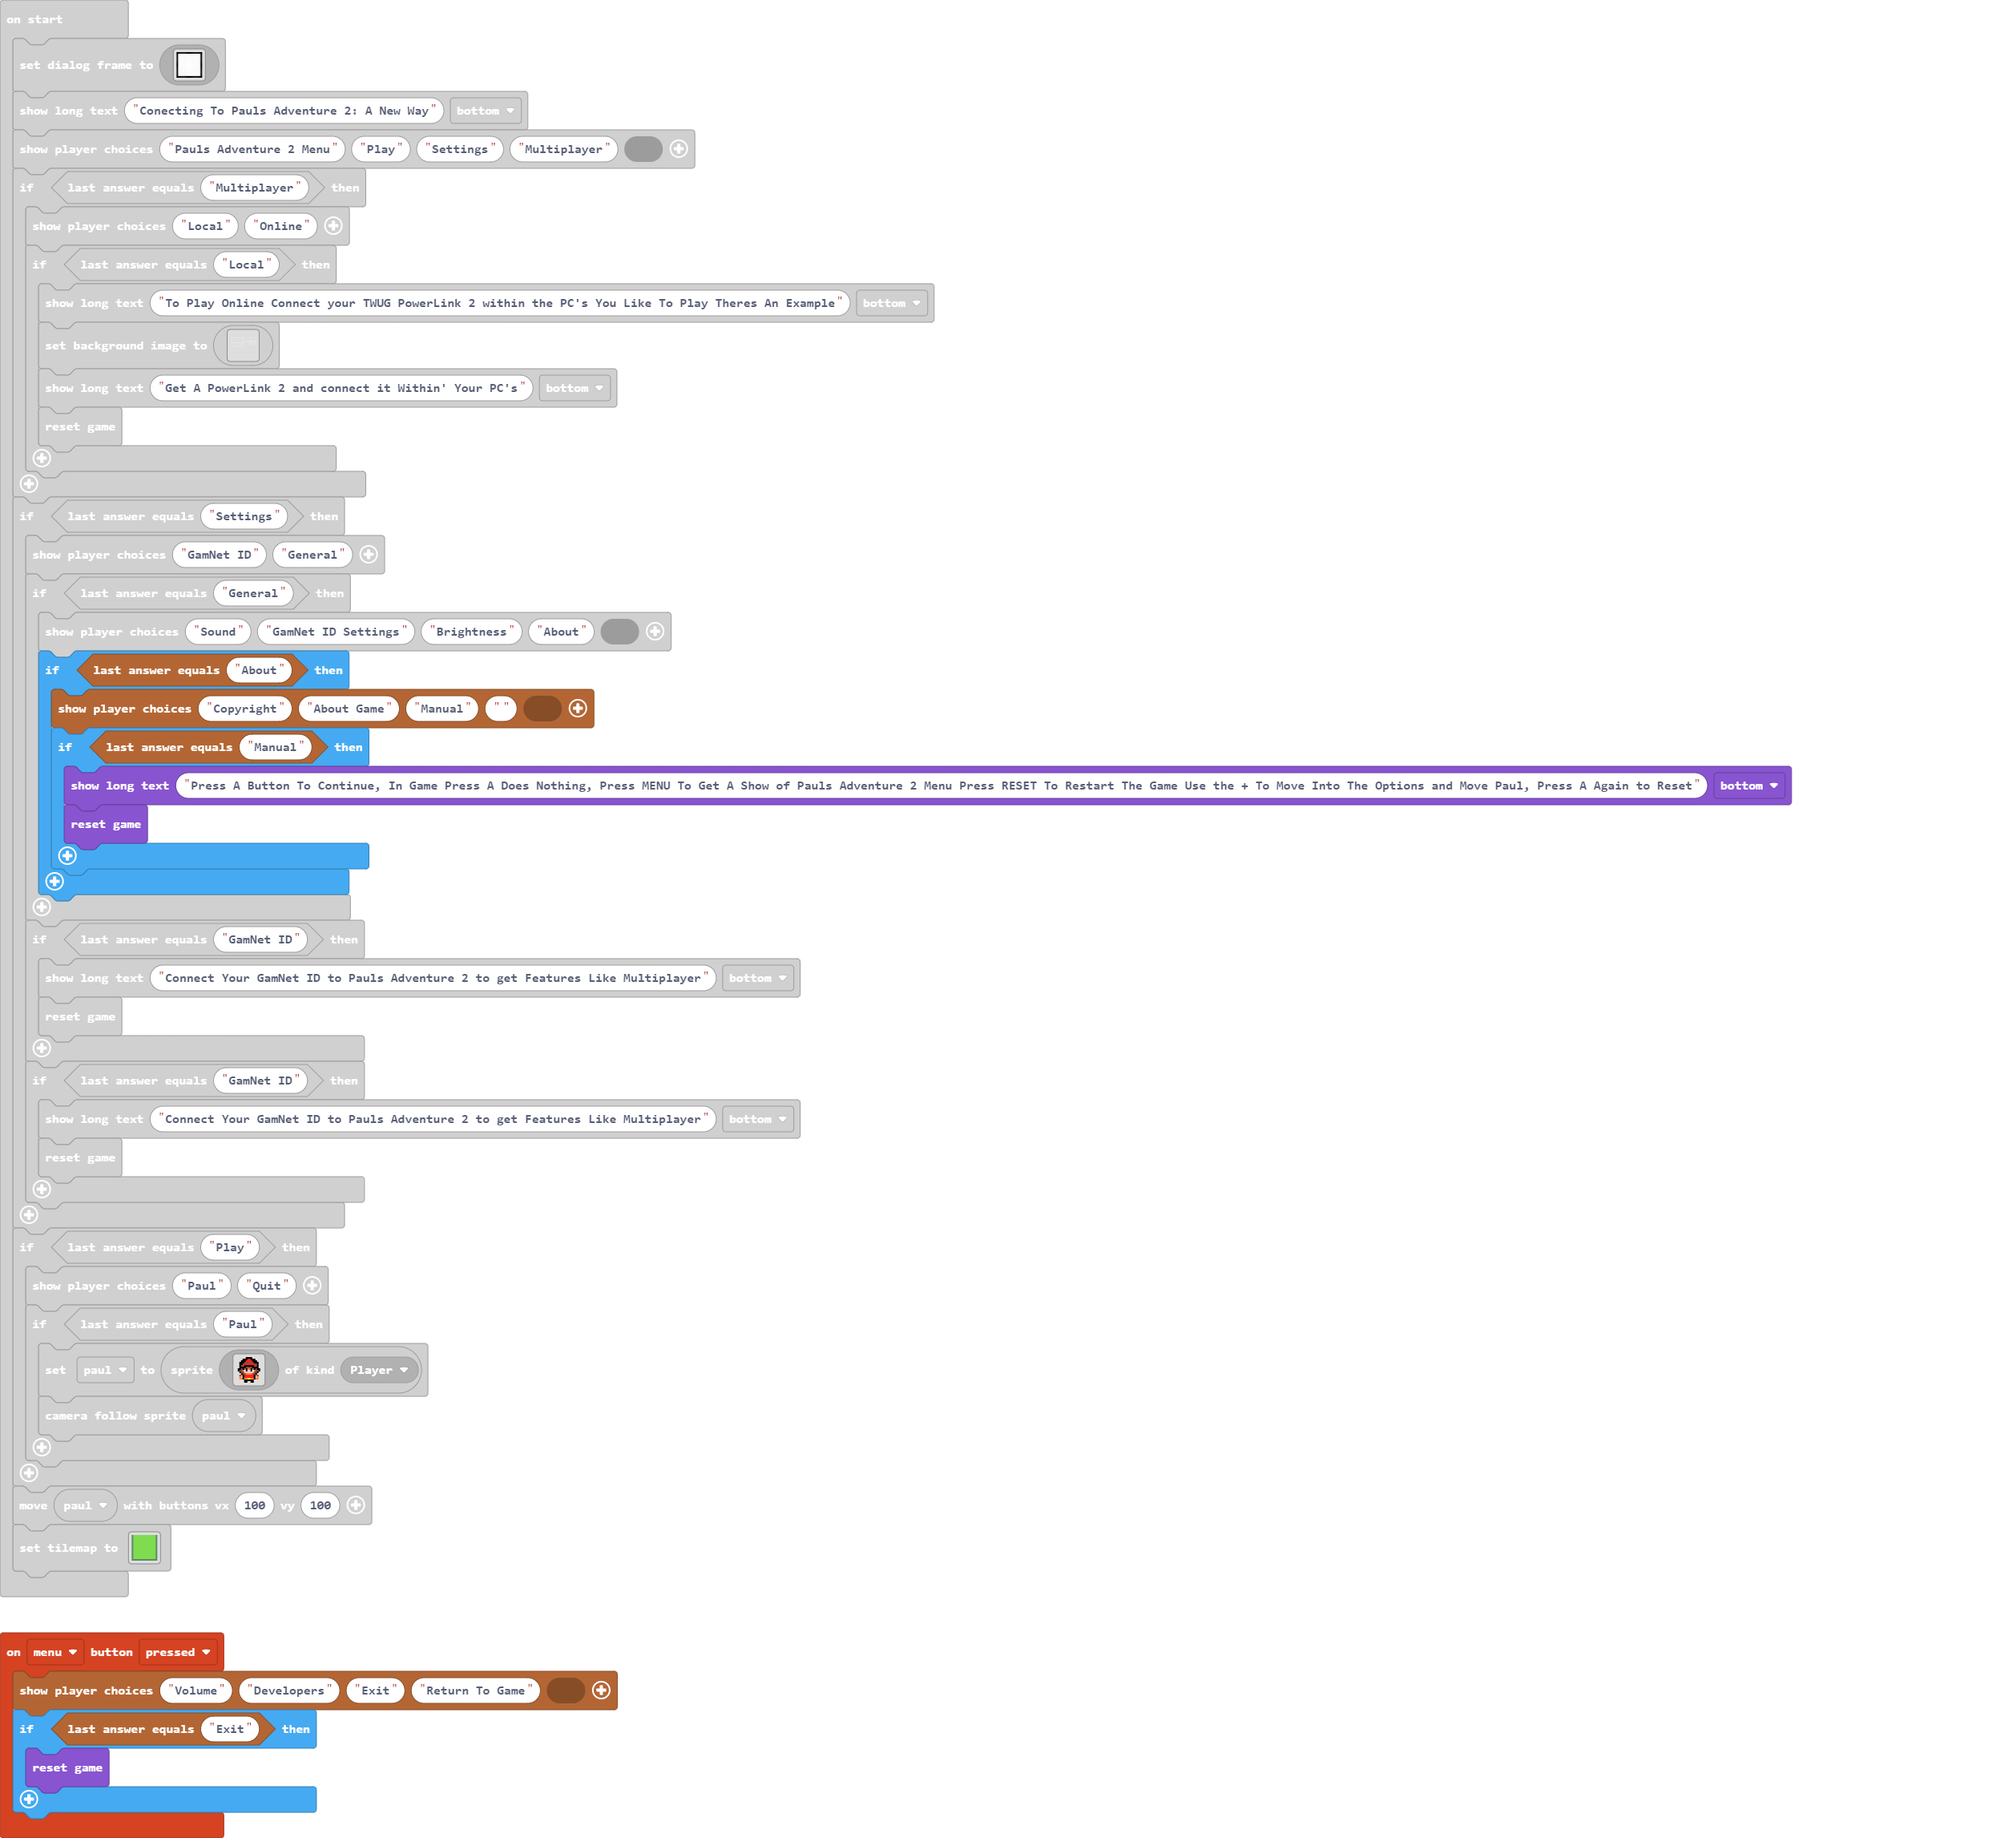
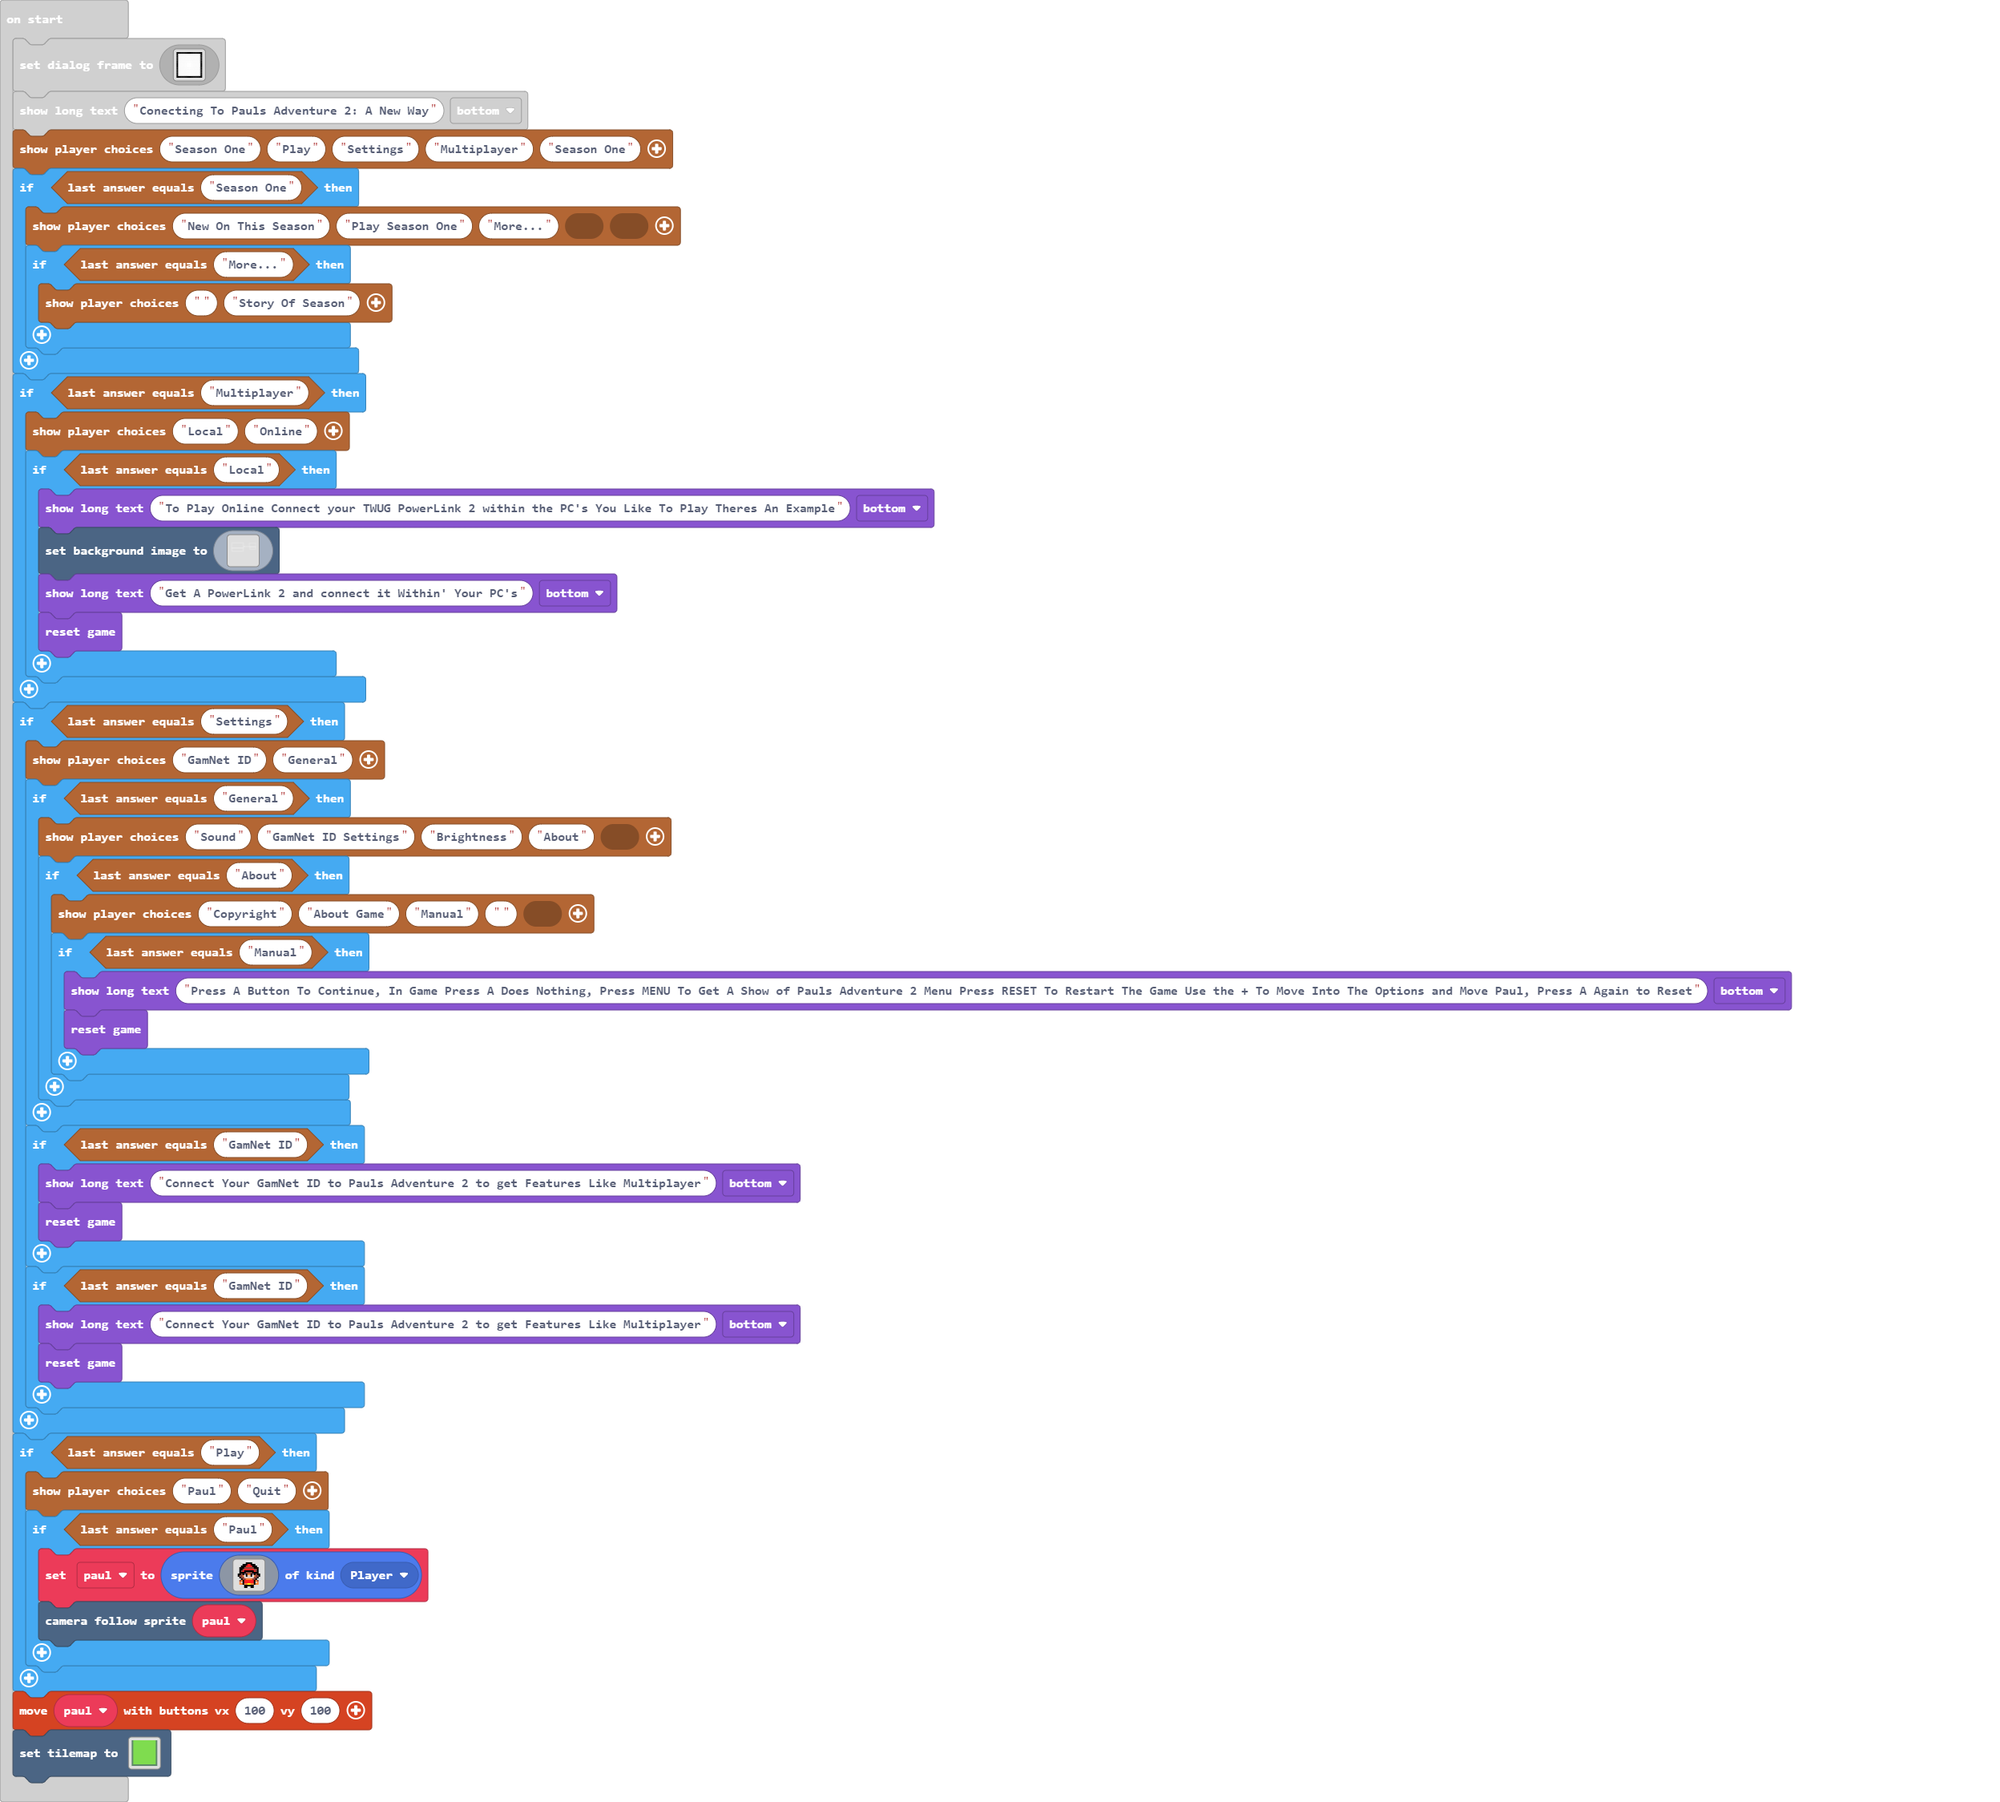
Created Season Menu

Changed region(s): [[0.0, 0.0311, 0.9062, 1.0]]

diff --git a/images.g.ts b/images.g.ts
@@ -132,7 +132,161 @@ namespace myImages {
 
     helpers._registerFactory("animation", function(name: string) {
         switch(helpers.stringTrim(name)) {
-
+            case "Trailer":
+            case "anim1":return [img`
+. . . . . . f f f f . . . . . . 
+. . . . f f f 2 2 f f f . . . . 
+. . . f f f 2 2 2 2 f f f . . . 
+. . f f f e e e e e e f f f . . 
+. . f f e 2 2 2 2 2 2 e e f . . 
+. . f e 2 f f f f f f 2 e f . . 
+. . f f f f e e e e f f f f . . 
+. f f e f b f 4 4 f b f e f f . 
+. f e e 4 1 f d d f 1 4 e e f . 
+. . f e e d d d d d d e e f . . 
+. . . f e e 4 4 4 4 e e f . . . 
+. . e 4 f 2 2 2 2 2 2 f 4 e . . 
+. . 4 d f 2 2 2 2 2 2 f d 4 . . 
+. . 4 4 f 4 4 5 5 4 4 f 4 4 . . 
+. . . . . f f f f f f . . . . . 
+. . . . . f f . . f f . . . . . 
+`, img`
+. . . . . . . . . . . . . . . . 
+. . . . . . f f f f . . . . . . 
+. . . . f f f 2 2 f f f . . . . 
+. . . f f f 2 2 2 2 f f f . . . 
+. . f f f e e e e e e f f f . . 
+. . f f e 2 2 2 2 2 2 e e f . . 
+. f f e 2 f f f f f f 2 e f f . 
+. f f f f f e e e e f f f f f . 
+. . f e f b f 4 4 f b f e f . . 
+. . f e 4 1 f d d f 1 4 e f . . 
+. . . f e 4 d d d d 4 e f e . . 
+. . f e f 2 2 2 2 e d d 4 e . . 
+. . e 4 f 2 2 2 2 e d d e . . . 
+. . . . f 4 4 5 5 f e e . . . . 
+. . . . f f f f f f f . . . . . 
+. . . . f f f . . . . . . . . . 
+`, img`
+. . . . . . f f f f . . . . . . 
+. . . . f f f 2 2 f f f . . . . 
+. . . f f f 2 2 2 2 f f f . . . 
+. . f f f e e e e e e f f f . . 
+. . f f e 2 2 2 2 2 2 e e f . . 
+. . f e 2 f f f f f f 2 e f . . 
+. . f f f f e e e e f f f f . . 
+. f f e f b f 4 4 f b f e f f . 
+. f e e 4 1 f d d f 1 4 e e f . 
+. . f e e d d d d d d e e f . . 
+. . . f e e 4 4 4 4 e e f . . . 
+. . e 4 f 2 2 2 2 2 2 f 4 e . . 
+. . 4 d f 2 2 2 2 2 2 f d 4 . . 
+. . 4 4 f 4 4 5 5 4 4 f 4 4 . . 
+. . . . . f f f f f f . . . . . 
+. . . . . f f . . f f . . . . . 
+`, img`
+. . . . . . . . . . . . . . . . 
+. . . . . . f f f f . . . . . . 
+. . . . f f f 2 2 f f f . . . . 
+. . . f f f 2 2 2 2 f f f . . . 
+. . f f f e e e e e e f f f . . 
+. . f e e 2 2 2 2 2 2 e f f . . 
+. f f e 2 f f f f f f 2 e f f . 
+. f f f f f e e e e f f f f f . 
+. . f e f b f 4 4 f b f e f . . 
+. . f e 4 1 f d d f 1 4 e f . . 
+. . e f e 4 d d d d 4 e f . . . 
+. . e 4 d d e 2 2 2 2 f e f . . 
+. . . e d d e 2 2 2 2 f 4 e . . 
+. . . . e e f 5 5 4 4 f . . . . 
+. . . . . f f f f f f f . . . . 
+. . . . . . . . . f f f . . . . 
+`, img`
+1 1 1 1 1 1 1 1 1 1 1 1 1 1 1 1 
+1 1 f f f 1 1 1 1 1 1 1 1 1 1 1 
+1 1 f f f 1 1 1 1 1 1 1 1 1 1 1 
+1 1 1 1 f 1 1 f f f f f f 1 1 1 
+1 1 1 1 f f f 3 3 3 3 3 3 f f 1 
+1 1 1 f 3 3 3 3 3 3 3 3 3 3 3 f 
+1 1 1 f 3 3 3 3 3 3 3 3 3 3 3 f 
+1 1 1 f 3 3 3 3 3 3 3 3 3 3 3 f 
+1 1 1 f 3 3 3 3 3 3 3 3 3 3 3 f 
+1 1 1 f 3 3 3 3 3 3 3 3 3 3 3 f 
+1 1 1 f 3 3 3 3 3 3 3 3 3 3 3 f 
+1 1 1 f 3 3 3 3 3 3 3 3 3 3 3 f 
+1 1 1 f 3 3 3 3 3 3 3 3 3 3 3 f 
+1 1 1 f 3 3 3 3 3 3 3 3 3 3 f f 
+1 1 1 f 3 3 3 3 3 3 3 3 3 3 3 f 
+1 1 1 f 3 3 3 3 3 3 3 3 3 3 3 f 
+`, img`
+1 1 1 1 f f f f f 1 1 1 1 1 1 1 
+1 1 1 1 f f f f f 1 1 1 1 1 1 1 
+1 f f f f f f f f f f f f f f f 
+1 f 3 f f 2 2 2 f 2 f f f f f f 
+1 f f f 3 f f f f f f f f 3 f f 
+1 1 f f 3 3 f 2 f f f f f f f f 
+1 1 f f f 3 f f 2 f f f f 3 3 f 
+1 f f 3 f f 3 f f 3 3 f f 3 3 f 
+1 f 3 3 3 f f f 3 3 3 3 f f f f 
+1 f 3 3 3 3 3 f f f f f f f f f 
+1 f 3 3 3 3 3 3 3 3 f f 3 3 3 f 
+1 f 3 3 3 3 3 3 3 3 3 3 3 3 3 f 
+1 f f 3 3 3 3 3 3 3 3 3 3 3 3 f 
+1 1 f 3 3 3 3 3 3 3 3 3 3 3 3 f 
+1 1 1 f f f f f f f f f f f f f 
+1 1 1 1 f 1 1 1 1 1 1 1 1 f f 1 
+`, img`
+. . . . . . . . . . . . . . . . 
+. . . . . . . . . . . . . . . . 
+. . . . . . . . . . . . . . . . 
+. . . . . . . . . . . . . . . . 
+. . . . . . . . . . . . . . . . 
+. . . . . . . . . . . . . . . . 
+. . . . . . . . . . . . f f f f 
+. . . . . . . . f . . . f 2 2 2 
+. . . . . . . . f f f f f f 2 f 
+. . . . . . . . f . . . f 2 2 2 
+. . . . . . . . f . . . f 2 2 2 
+. . . . . . . . f . f f f 2 2 2 
+. . . . . . . . f . f f 3 3 2 3 
+. . . . . . . . f f f f 3 3 3 3 
+. . . . . . . . . f f f f 3 f f 
+. . . . . . . . . . f 3 3 3 3 3 
+`, img`
+1 1 1 1 1 1 1 1 1 1 1 1 1 1 1 1 
+f f f 1 1 1 1 1 1 1 1 1 1 1 1 1 
+f 1 1 1 1 1 1 1 1 1 1 1 f f f 1 
+f f f 1 f f f 1 f 1 f 1 f 1 f 1 
+1 1 f 1 f 1 f 1 f 1 f 1 f f f 1 
+f f f 1 f f f 1 f 1 f 1 f 1 1 1 
+1 1 1 1 1 1 f 1 1 f 1 1 f f f 1 
+1 1 1 1 1 1 1 1 1 1 1 1 1 1 1 1 
+f 1 1 1 1 1 1 f f f 1 1 1 1 1 1 
+f f f 1 1 f 1 f 1 f 1 1 1 1 1 1 
+f 1 1 1 f f 1 f f f 1 1 1 1 1 1 
+f 1 1 1 f f 1 f 1 1 1 1 1 1 1 1 
+1 1 1 1 1 1 1 f f f 1 1 1 1 1 1 
+1 1 1 1 1 1 1 1 1 1 1 1 1 1 1 1 
+1 1 1 1 1 1 1 1 1 1 1 1 1 1 1 1 
+1 1 1 1 1 1 1 1 1 1 1 1 1 1 1 1 
+`, img`
+f f f f 1 1 1 1 1 1 1 1 1 1 1 1 
+f 1 1 1 1 1 1 1 1 1 1 1 1 1 1 1 
+f 1 f f f 1 f f f 1 f 1 1 1 1 1 
+f 1 1 1 f 1 f 1 f 1 f f f 1 1 1 
+f f f f f 1 f f f 1 f 1 1 1 1 1 
+1 1 1 1 1 1 1 1 f 1 1 1 1 1 1 f 
+1 1 1 1 1 1 1 1 1 1 1 1 1 1 1 f 
+1 1 f 1 1 1 1 1 1 1 1 1 1 1 1 f 
+1 1 f 1 f f f 1 1 1 f f f f 1 f 
+f f f 1 f 1 f 1 1 f 1 1 1 f 1 f 
+f 1 f 1 f f f 1 1 f 1 1 1 f 1 f 
+f f f 1 f 1 1 1 1 f 1 1 1 f 1 1 
+1 1 1 1 f f f 1 1 f 1 1 1 f 1 f 
+1 1 1 1 1 1 1 1 1 1 1 1 1 1 1 1 
+1 1 1 1 1 1 1 1 1 1 1 1 1 1 1 1 
+1 1 1 1 1 1 1 1 1 1 1 1 1 1 1 1 
+`];
         }
         return null;
     })

diff --git a/tilemap.g.ts b/tilemap.g.ts
@@ -142,6 +142,25 @@ namespace myTiles {
 . . . . . . . . . . . . . . . . 
 . . . . . . . . . . . . . . . . 
 `, [myTiles.transparency16], TileScale.Sixteen);
+            case "level8":
+            case "level8":return tiles.createTilemap(hex`1000100000000000000000000000000000000000000000000000000000000000000000000000000000000000000000000000000000000000000000000000000000000000000000000000000000000000000000000000000000000000000000000000000000000000000000000000000000000000000000000000000000000000000000000000000000000000000000000000000000000000000000000000000000000000000000000000000000000000000000000000000000000000000000000000000000000000000000000000000000000000000000000000000000000000000000000000000000000000000000000000000000000000000000000000000000000000`, img`
+. . . . . . . . . . . . . . . . 
+. . . . . . . . . . . . . . . . 
+. . . . . . . . . . . . . . . . 
+. . . . . . . . . . . . . . . . 
+. . . . . . . . . . . . . . . . 
+. . . . . . . . . . . . . . . . 
+. . . . . . . . . . . . . . . . 
+. . . . . . . . . . . . . . . . 
+. . . . . . . . . . . . . . . . 
+. . . . . . . . . . . . . . . . 
+. . . . . . . . . . . . . . . . 
+. . . . . . . . . . . . . . . . 
+. . . . . . . . . . . . . . . . 
+. . . . . . . . . . . . . . . . 
+. . . . . . . . . . . . . . . . 
+. . . . . . . . . . . . . . . . 
+`, [myTiles.transparency16], TileScale.Sixteen);
         }
         return null;
     })

diff --git a/main.ts b/main.ts
@@ -23,7 +23,13 @@ game.setDialogFrame(img`
     f f f f f f f f f f f f f f f 
     `)
 game.showLongText("Conecting To Pauls Adventure 2: A New Way", DialogLayout.Bottom)
-story.showPlayerChoices("Pauls Adventure 2 Menu", "Play", "Settings", "Multiplayer")
+story.showPlayerChoices("Season One", "Play", "Settings", "Multiplayer")
+if (story.checkLastAnswer("Season One")) {
+    story.showPlayerChoices("New On This Season", "Play Season One", "More...")
+    if (story.checkLastAnswer("More...")) {
+        story.showPlayerChoices("", "Story Of Season")
+    }
+}
 if (story.checkLastAnswer("Multiplayer")) {
     story.showPlayerChoices("Local", "Online")
     if (story.checkLastAnswer("Local")) {
